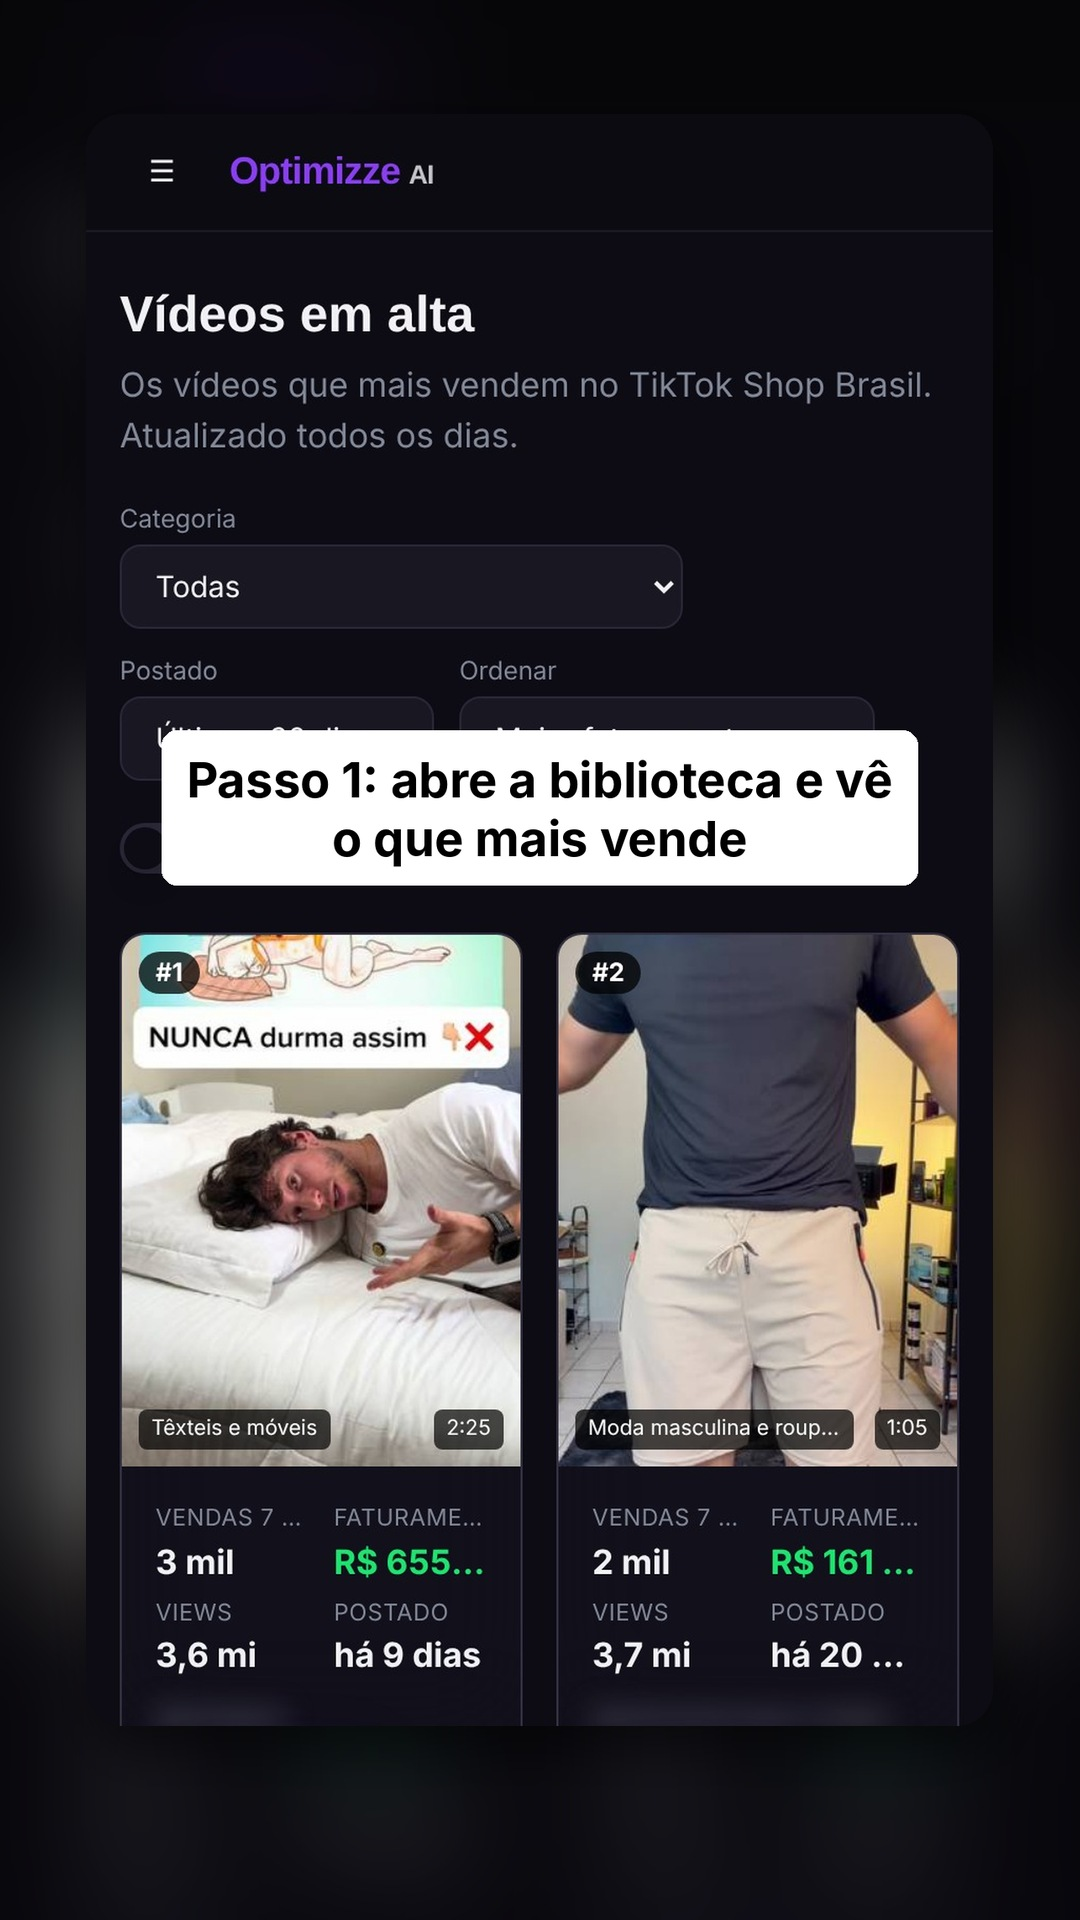
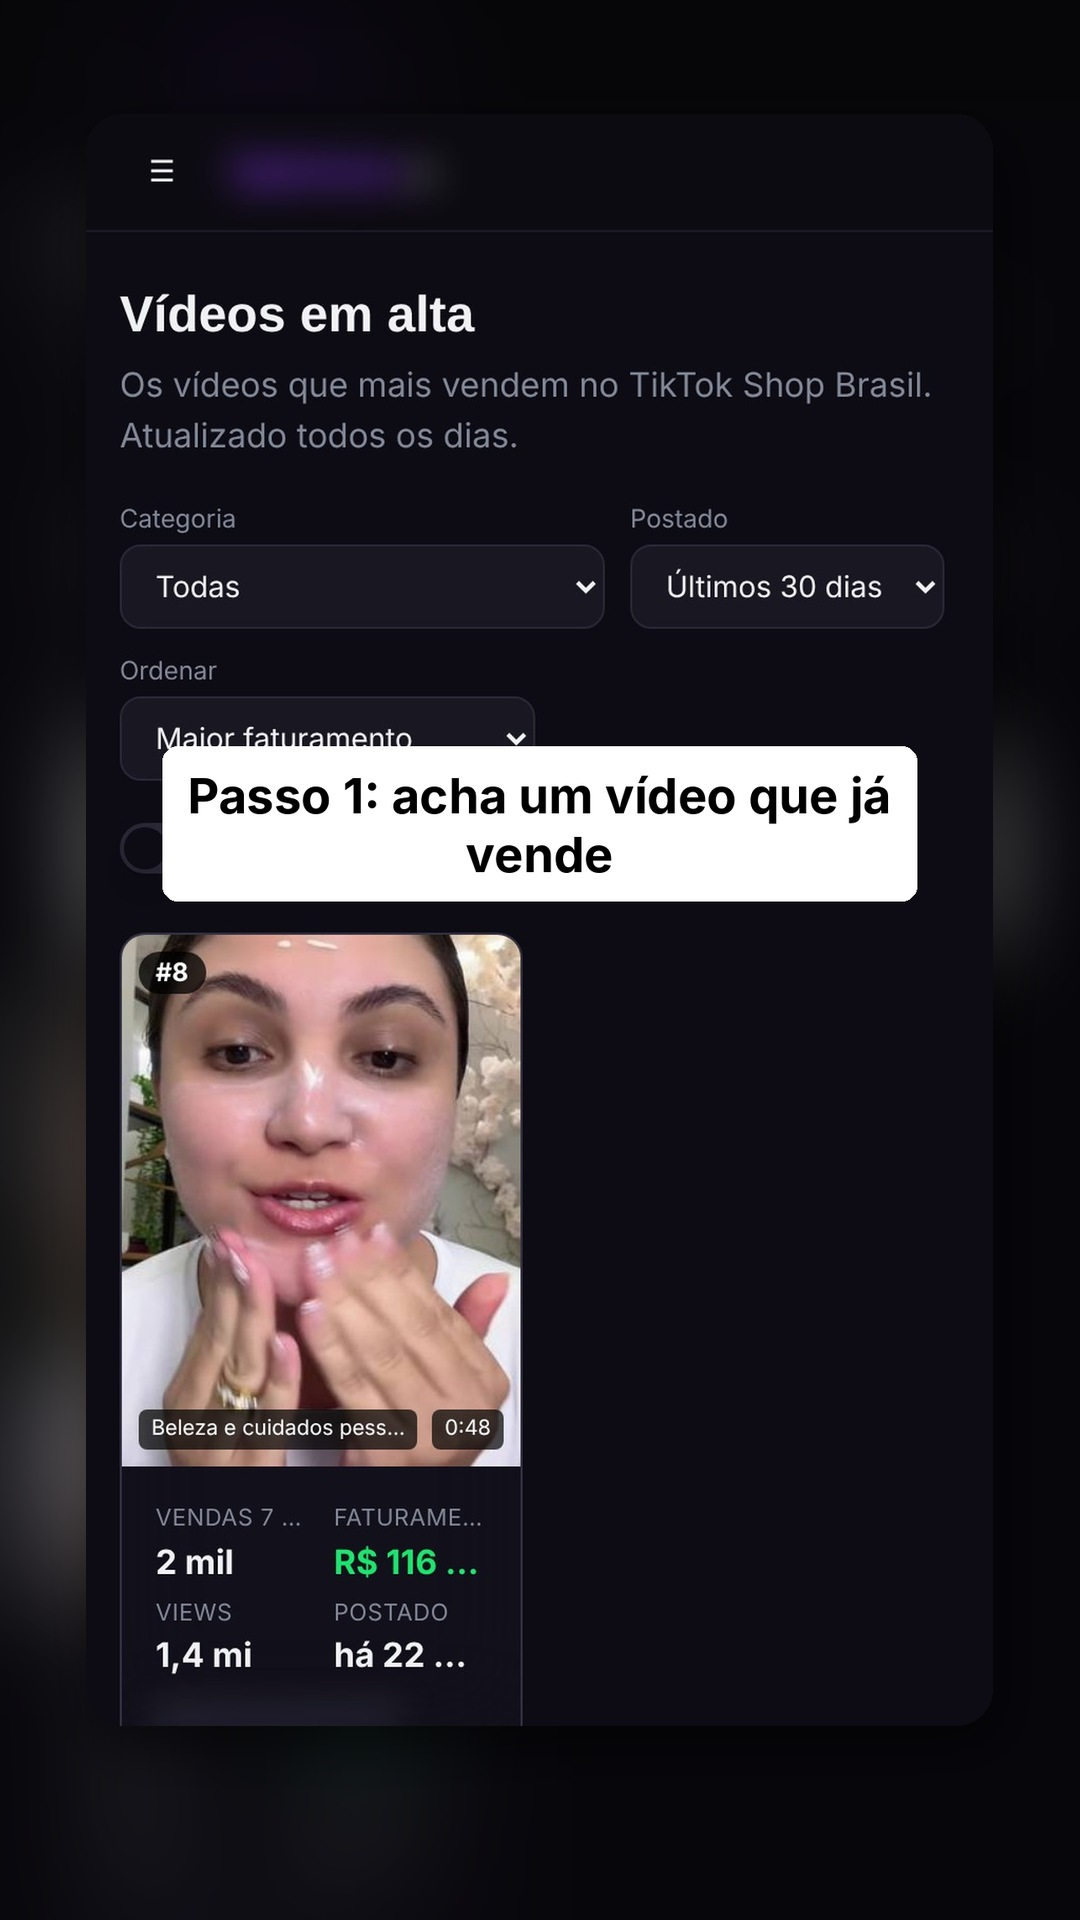
Carrossel E v2 (só o vídeo citado, marca borrada, 'variações na estrutura validada') + regras de marca no manual
Claude-Session: https://claude.ai/code/session_01KTGin3UXr93ftGyDrNuv7b

diff --git a/CLAUDE.md b/CLAUDE.md
@@ -88,6 +88,12 @@ Tudo em português do Brasil, fuso America/Sao_Paulo.
 - Recursos reais da Optimizze: Remix Inteligente (envia vídeo que já vendeu; devolve V1 Otimizada e Fiel,
   V2 Variação de Contexto, V3 Variação Criativa), Resumo da otimização (Hook, Estrutura da Copy, CTA),
   Modo Gravação (cenas com FALA/AÇÃO/TOM), Prompts de vídeo por cena, plano mensal R$29,90 e anual R$197.
+- **Nome da marca (desde 11/11):** NÃO citar "Optimizze" nos slides nem na legenda (ainda não se sabe
+  se o nome pode ser usado). Falar "a ferramenta" / "a IA". Nos prints reais, o logo fica borrado.
+- **Como descrever o recurso:** nunca "a IA gera roteiros". O certo: gera **variações** baseadas na
+  **estrutura validada** de vídeos que já venderam (V1/V2/V3 com cenas fala/ação/tom).
+- **Vídeo citado = só ele na tela:** quando o slide fala de um vídeo específico, o print mostra só
+  aquele vídeo (sem a grade de outros vídeos), e o @ do criador sempre borrado.
 - Sem emoji dentro dos slides (não há fonte de emoji); emojis só na legenda.
 - Hashtags que performaram: `#tiktokshop #tiktokshopbr #ia #afiliados #afiliadosiniciantes`.
 - Textos curtos por slide (máx. ~12 palavras), linguagem de afiliado brasileiro, direta.
@@ -107,8 +113,11 @@ Ferramentas: `listar_em_alta` (tipo video|produto), `ver_video`, `criar_variacoe
 - Mantém o estilo e a estrutura decididos pelas regras acima (modo viral ou 2+1): a biblioteca muda
   o EXEMPLO, não o formato. No estilo escuro, os blocos "Exemplo:" passam a ter o conteúdo real
   (pode tirar o "Exemplo" e escrever "Gerado pela Optimizze" ou nada).
-- Passo novo e real que pode virar slide: "Acha um vídeo que já vende na **biblioteca** da Optimizze"
-  (ranking com vendas de 7 dias) e "Clica em **Criar variações**".
+- Passo novo e real que pode virar slide: "Acha um vídeo que já vende" (biblioteca, ranking com vendas
+  de 7 dias) e "Cria variações na estrutura que já vendeu". Sem citar o nome da marca.
+- **Estilo `prints` (motor/prints.py, desde 11/11):** prints REAIS das telas do app (abertas a partir do
+  código do repositório viralsafeai com os dados do conector) + legenda em caixa branca. Exemplo:
+  specs/2026-11-11_E_prints_protetor.json. A captura ainda é feita fora da rotina (sessão do Lucas).
 - Números reais da biblioteca podem ir no slide (vendas e faturamento de 7 dias, views), sempre
   como "estimado" e sem citar o nome/@ do criador do vídeo original. Nunca usar capa ou trecho do
   vídeo de outro criador como se fosse do Lucas.
